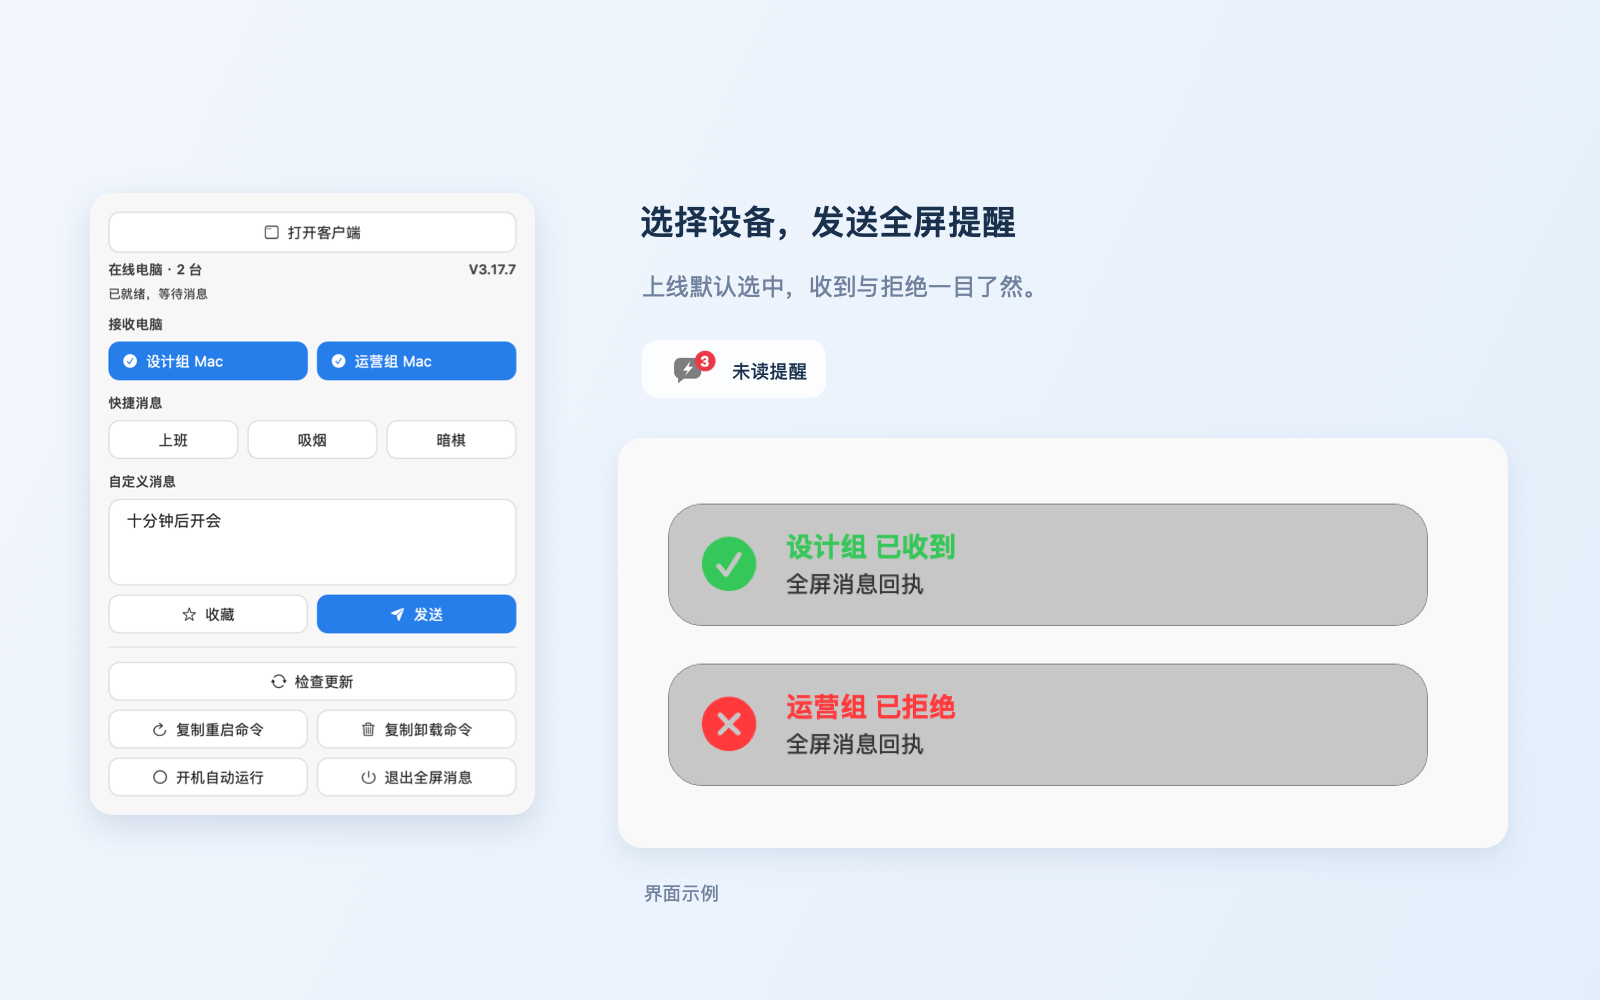
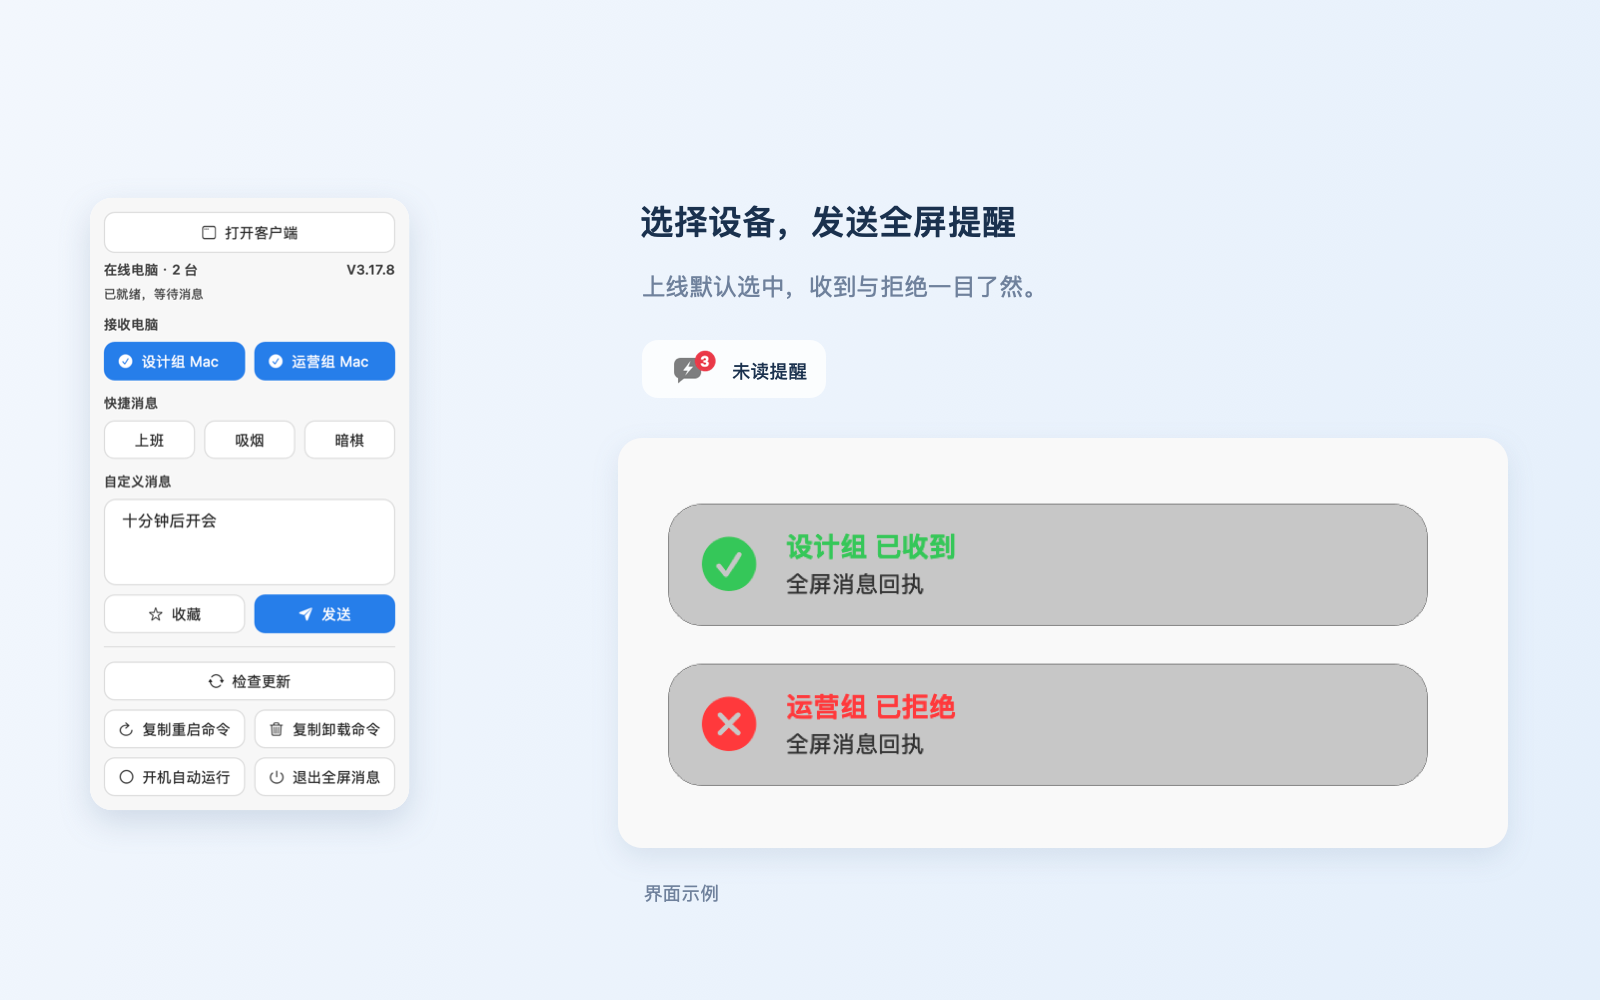
Narrow the status bar panel and its margins

diff --git a/Sources/AppDelegate.swift b/Sources/AppDelegate.swift
@@ -192,8 +192,9 @@ final class AppDelegate: NSObject, NSApplicationDelegate, NSTextFieldDelegate, N
         statusPopover.delegate = self
         statusPopover.behavior = .transient
         statusPopover.animates = true
-        var width: CGFloat = 390
-        let contentWidth = width - 32
+        var width: CGFloat = 280
+        let panelInset: CGFloat = 12
+        let contentWidth = width - 2 * panelInset
         let screen = statusItem.button?.window?.screen ?? NSScreen.main
         let availableHeight = max(280, (screen?.visibleFrame.height ?? 800) - 40)
         var rowHeights: [NSLayoutConstraint] = []
@@ -366,13 +367,13 @@ final class AppDelegate: NSObject, NSApplicationDelegate, NSTextFieldDelegate, N
         var stack = column([header, devices, shortcuts, composer, separator(), utilities], spacing: 12)
         let columnWidth = stack.widthAnchor.constraint(equalToConstant: contentWidth)
         columnWidth.isActive = true
-        var height = ceil(stack.fittingSize.height) + 32
+        var height = ceil(stack.fittingSize.height) + 2 * panelInset
         if height > availableHeight {
             // Fit the controls themselves instead of clipping a scrolling document.
             rowHeights.forEach { $0.constant = 30 }
             columns.forEach { $0.0.spacing = max(4, $0.1 - 4) }
             editorHeight.constant = 56
-            height = ceil(stack.fittingSize.height) + 32
+            height = ceil(stack.fittingSize.height) + 2 * panelInset
         }
         if height > availableHeight, (screen?.visibleFrame.width ?? 1440) >= 800 {
             // Short screens keep every section on the same panel, side by side.
@@ -389,20 +390,20 @@ final class AppDelegate: NSObject, NSApplicationDelegate, NSTextFieldDelegate, N
             body.distribution = .fillEqually
             body.spacing = 16
             left.widthAnchor.constraint(equalTo: right.widthAnchor).isActive = true
-            width = 2 * contentWidth + 48
+            width = 2 * contentWidth + 2 * panelInset + 16
             columnWidth.isActive = false
             stack = column([header, body], spacing: 10)
-            stack.widthAnchor.constraint(equalToConstant: width - 32).isActive = true
-            height = ceil(stack.fittingSize.height) + 32
+            stack.widthAnchor.constraint(equalToConstant: width - 2 * panelInset).isActive = true
+            height = ceil(stack.fittingSize.height) + 2 * panelInset
         }
         stack.translatesAutoresizingMaskIntoConstraints = false
         let container = PopoverBackgroundView(frame: NSRect(x: 0, y: 0, width: width, height: height))
         container.addSubview(stack)
         NSLayoutConstraint.activate([
-            stack.leadingAnchor.constraint(equalTo: container.leadingAnchor, constant: 16),
-            stack.topAnchor.constraint(equalTo: container.topAnchor, constant: 16),
-            stack.trailingAnchor.constraint(equalTo: container.trailingAnchor, constant: -16),
-            stack.bottomAnchor.constraint(equalTo: container.bottomAnchor, constant: -16)
+            stack.leadingAnchor.constraint(equalTo: container.leadingAnchor, constant: panelInset),
+            stack.topAnchor.constraint(equalTo: container.topAnchor, constant: panelInset),
+            stack.trailingAnchor.constraint(equalTo: container.trailingAnchor, constant: -panelInset),
+            stack.bottomAnchor.constraint(equalTo: container.bottomAnchor, constant: -panelInset)
         ])
         let controller = NSViewController()
         controller.view = container

diff --git a/README.md b/README.md
@@ -90,4 +90,4 @@ curl -fsSL "https://github.com/hbiszxm/mac-fullscreen-message/releases/latest/do
 构建产物位于 `build/`：
 
 - `全屏消息.app`
-- `全屏消息-Apple芯片-v3.17.7.pkg`
+- `全屏消息-Apple芯片-v3.17.8.pkg`
